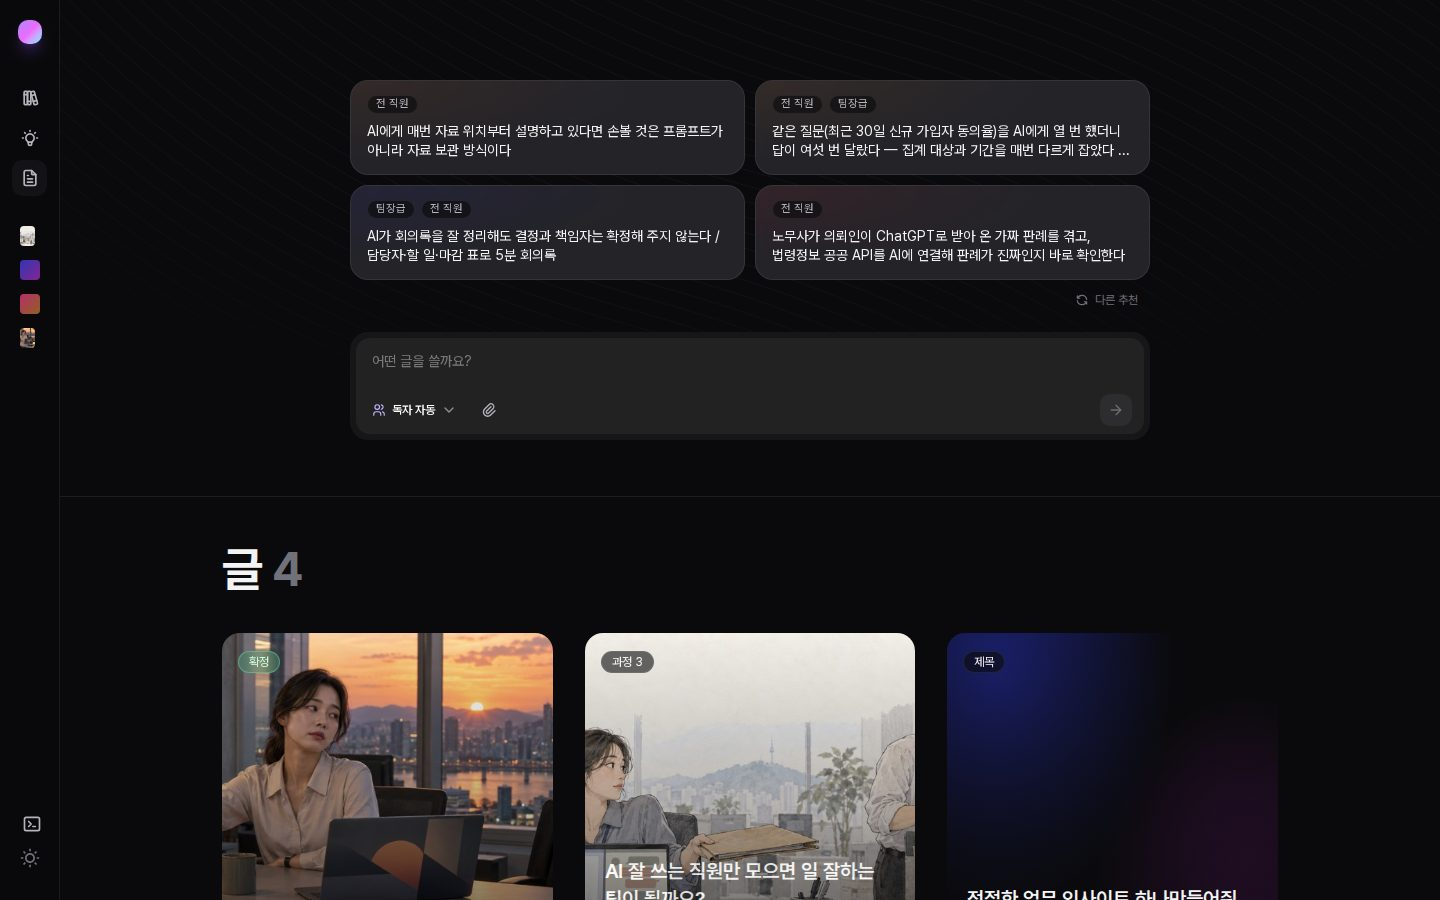
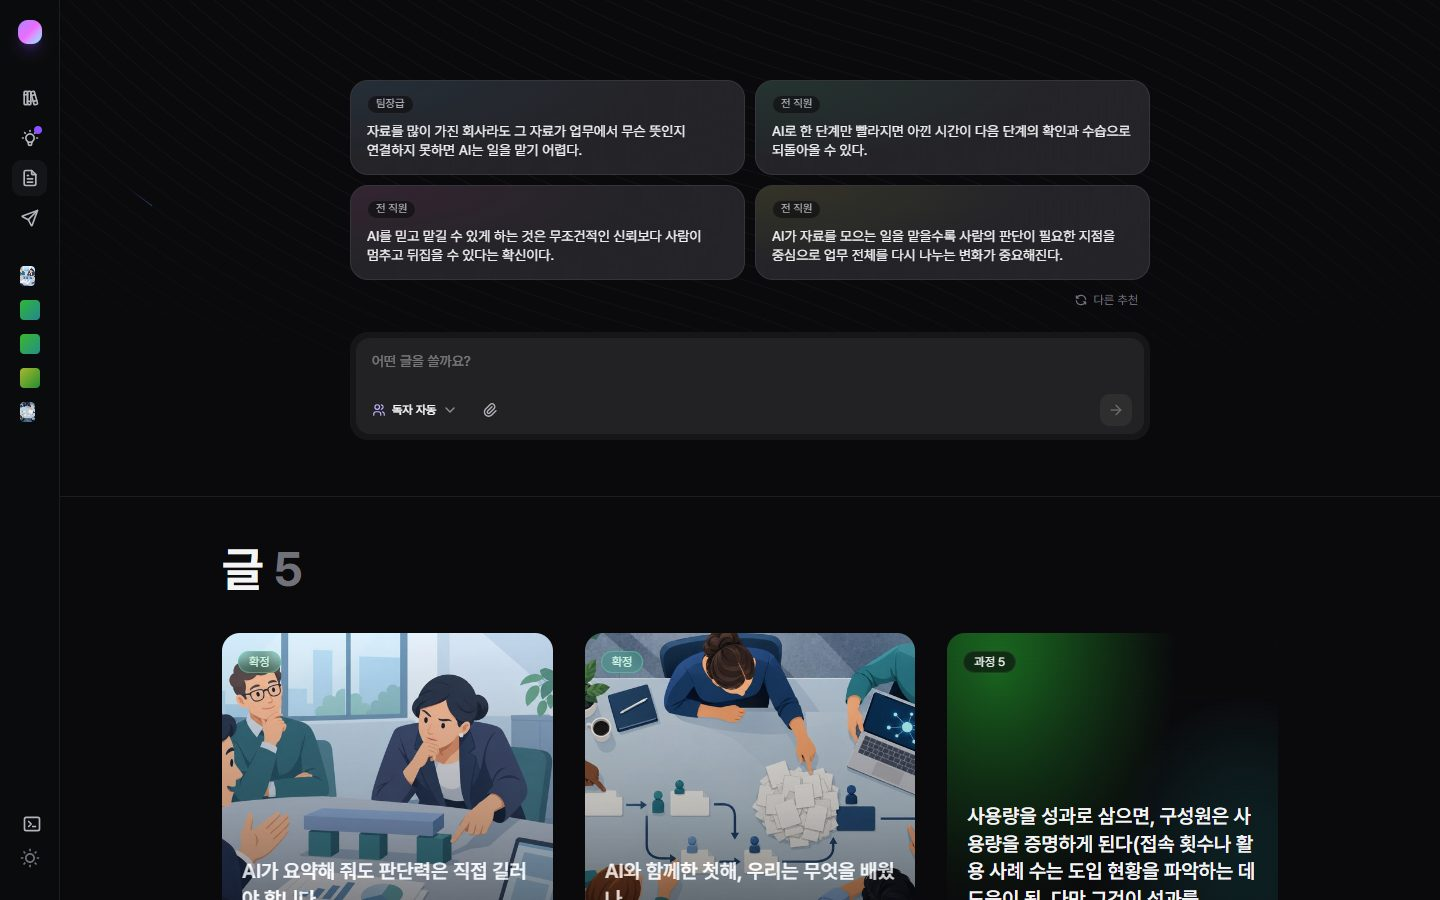
README 화면 캡처 8장을 지금 작업실 화면으로 다시 찍음
- 확정 칼럼 m-20261111-131355로: 메인·서재·주제·글 화면·원문 확인·과정 비교·제목 후보·그림/확정/규칙 후보
- capture.py: 지워진 10월 글 대신 지금 글, 서재·주제 화면 추가, Playwright 크로미움이 없으면 Edge·Chrome 사용,
  열릴 때 자동 스크롤이 끝난 뒤 찍기, 대화 칸 안에서만 이름표 찾기
- 제목 화면은 '원고를 정한 뒤' 단계에서만 보여, 화면이 받는 상태 응답을 브라우저 안에서만 바꿔 찍음(서버·파일 변경 없음)
- 그림 후보는 그린 PC에만 있어(git 밖) 이번 캡처에는 없음 — README 캡션에 표시
- README 캡션, handoff의 캡처 관련 항목 갱신. 도식 두 장은 2026-10 것 그대로

diff --git a/docs/readme/capture.py b/docs/readme/capture.py
@@ -1,8 +1,13 @@
-"""README 화면 캡처 — 작업실 대화 화면 기준 (2026-10-11 밤 다시 찍음)
+"""README 화면 캡처 — 작업실 화면 8장 (2026-11-17 다시 찍음)
 
 사용: python3 docs/readme/capture.py [작업실 주소=http://localhost:8771]
-어두운 화면 1440×900, jpg. 글은 저장소에 커밋된 것만 찍는다. 그 글을 지웠으면 그 캡처는 건너뛴다.
+어두운 화면 1440×900, jpg. 작업실 서버가 떠 있어야 한다. 글은 저장소에 커밋된 확정 칼럼(ARTICLE)을 찍는다 — 그 글을 지웠으면 ARTICLE을 바꾼다.
+작업실에는 아무것도 쓰지 않는다(누르는 것은 보기 전환뿐).
+
+제목 화면(screen-titles.jpg)만 예외: 제목 후보는 '원고를 정한 뒤 · 그림 전' 단계에서만 보이는데 ARTICLE은 이미 확정한 글이라,
+화면이 받는 상태 응답(/api/state)을 브라우저 안에서만 그 단계로 바꿔 찍는다. 제목 후보는 그 글이 실제로 받은 것 그대로이고, 서버·파일은 바뀌지 않는다.
 """
+import json
 import sys
 import time
 from pathlib import Path
@@ -11,42 +16,84 @@ from playwright.sync_api import sync_playwright
 
 BASE = sys.argv[1] if len(sys.argv) > 1 else "http://localhost:8771"
 OUT = Path(__file__).resolve().parent
-SHOTS = [  # (파일, 주소, 대화에서 위로 올릴 표시 글자, 오른쪽 '지금 글'에서 누를 보기)
-    ("screen-articles.jpg", "#/articles", None, None),
-    ("screen-column.jpg", "#/a/2026-10-08-ai-퇴근시간", None, "미리보기"),
-    ("screen-mine.jpg", "#/a/m-20261011-215031", "top", None),
-    ("screen-titles.jpg", "#/a/w-20261010-161003", "top", None),
-    ("screen-process.jpg", "#/a/m-20261011-173414", "과정 2", "비교"),
-    ("screen-images.jpg", "#/a/m-20261011-173414", "그림", None),
+ARTICLE = "m-20261111-131355"  # 확정 칼럼 「AI가 요약해 줘도 판단력은 직접 길러야 합니다」 — 주제 지도에서 시작, 과정 13
+A = f"#/a/{ARTICLE}"
+SHOTS = [  # (파일, 주소, 대화에서 위로 올릴 표시 글자, 누를 과정 카드, 오른쪽 '지금 글'에서 누를 보기, 제목 단계로 바꿔 찍기)
+    ("screen-articles.jpg", "#/articles", None, None, None, False),
+    ("screen-library.jpg", "#/library", None, None, None, False),
+    ("screen-topics.jpg", "#/topics", None, None, None, False),
+    ("screen-column.jpg", A, None, None, "미리보기", False),
+    ("screen-mine.jpg", A, "top", None, None, False),
+    ("screen-process.jpg", A, "과정 3", "과정 3", "비교", False),
+    ("screen-titles.jpg", A, "제목 후보", None, None, True),
+    ("screen-images.jpg", A, "그림", None, None, False),
 ]
+
+
+def launch(p):
+    """Playwright 크로미움이 없으면 설치된 Edge·Chrome을 쓴다(브라우저를 새로 받지 않게)."""
+    for kw in ({}, {"channel": "msedge"}, {"channel": "chrome"}):
+        try:
+            return p.chromium.launch(**kw)
+        except Exception:
+            continue
+    sys.exit("브라우저를 찾지 못함 — `playwright install chromium` 또는 Edge·Chrome 설치")
+
+
+def title_stage(route):
+    """ARTICLE을 '원고를 정한 뒤 · 그림 전'으로 — 이 페이지가 받는 응답만 바꾼다."""
+    r = route.fetch()
+    s = r.json()
+    for a in s.get("articles", []):
+        if a.get("id") == ARTICLE:
+            a.update(confirmed=None, imagesDone=False, ruleCands=None, textPick={"n": len(a["steps"]), "of": len(a["steps"])})
+    route.fulfill(response=r, body=json.dumps(s, ensure_ascii=False), headers={**r.headers, "content-type": "application/json"})
 
 
 def scroll_to(pg, mark):
     """대화 칸에서 그 표시 글자가 위쪽에 오게 — 대화는 열리면 맨 아래로 내려가므로 그 뒤에 올린다"""
-    time.sleep(1.5)
     box = pg.locator("section div.overflow-y-auto").first
+    last = -1  # 열릴 때 맨 아래로 부드럽게 내려가는 움직임이 끝날 때까지 기다린다 — 끝나기 전에 올리면 다시 끌려 내려간다
+    for _ in range(40):
+        time.sleep(0.4)
+        cur = box.evaluate("e => e.scrollTop")
+        if cur == last:
+            break
+        last = cur
     if mark == "top":
         box.evaluate("e => { e.style.scrollBehavior = 'auto'; e.scrollTop = 0; }")
         return
-    el = pg.get_by_text(mark, exact=True).first  # 대화의 이름표가 확정 카드의 칩보다 먼저 나온다
+    el = box.get_by_text(mark, exact=True).first  # 대화 칸 안에서만 찾는다(왼쪽 목록에도 '과정 N' 표시가 있다). 이름표가 확정 카드의 칩보다 먼저 나온다
+    if not el.count():
+        el = box.get_by_text(mark).first
     if el.count():
         el.evaluate("e => { const b = e.closest('.overflow-y-auto'); b.style.scrollBehavior = 'auto'; b.scrollTop += e.getBoundingClientRect().top - 90; }")
+    else:
+        print("  표시 글자를 못 찾음:", mark)
 
 
 with sync_playwright() as p:
-    b = p.chromium.launch()
-    pg = b.new_page(viewport={"width": 1440, "height": 900}, color_scheme="dark")
-    for name, h, mark, view in SHOTS:
+    b = launch(p)
+    for name, h, mark, card, view, mock in SHOTS:
+        pg = b.new_page(viewport={"width": 1440, "height": 900}, color_scheme="dark")
+        if mock:
+            pg.route("**/api/state*", title_stage)
         pg.goto(f"{BASE}/{h}", wait_until="networkidle")
-        time.sleep(2)
+        time.sleep(2.5)
         if h.startswith("#/a/") and pg.locator("section").count() == 0:
             print("없는 글 — 건너뜀:", h)
+            pg.close()
             continue
-        if view:
-            pg.get_by_role("button", name=view, exact=True).click()
         if mark:
             scroll_to(pg, mark)
-        time.sleep(1)
+        if card:  # 과정 카드는 이름표 바로 아래에 있다 — 이름표를 위로 올린 뒤 그 아래 카드 본문을 눌러 오른쪽 '지금 글'에 띄운다
+            box = pg.locator("section div.overflow-y-auto").first.get_by_text(card, exact=True).first.bounding_box()
+            pg.mouse.click(box["x"] + 300, box["y"] + 70)
+            time.sleep(0.8)
+        if view:
+            pg.get_by_role("button", name=view, exact=True).click()
+        time.sleep(1.2)
         pg.screenshot(path=str(OUT / name), type="jpeg", quality=82)
         print(name)
+        pg.close()
     b.close()

diff --git a/handoff.md b/handoff.md
@@ -147,7 +147,8 @@
 - 무유입 경보 이슈가 닫히지 않고 쌓여 새 고장이 묻힌다.
 
 **문서·정리**
-- README의 화면 캡처와 도식 두 장은 2026-10 것이다(`python3 docs/readme/capture.py`로 다시 찍을 수 있는지는 확인하지 못했다).
+- README의 화면 캡처 8장은 2026-11-17에 다시 찍었다(`python3 docs/readme/capture.py <작업실 주소>` — Playwright 크로미움이 없으면 Edge·Chrome을 쓴다).
+  도식 두 장(`diagram-flow.png`·`diagram-architecture.png`)은 2026-10 것 그대로다. 그림 후보가 보이는 캡처는 그림을 그린 PC에서 찍어야 한다.
 - 2026-11-17 10월 시험 잔재를 지웠다 — `wiki-hook/`, `drafts/`, `view/`(+`scripts/build_view.py`·`ai_tells.py`), `runs/`의 `astra-*`·`claude-*`·`_F`·`standard`·`rewrite`·`direct`·`sim`·
   `skilltest`·`company-rule-test`·`topic-*`·`compare-1011`. 필요하면 git 이력에서 꺼낸다(삭제 직전 커밋 `5524734`).
   그 폴더를 읽고 쓰던 `wiki-eval/`의 10월 시험 스크립트(`run_*.py`·`build_*_page.py` 등)는 기록으로 남겼고, 다시 돌리면 동작하지 않는다.
@@ -163,7 +164,7 @@
 2. 본문을 쓴 뒤 버려지는 글 줄이기 — 과정 1 뒤에 사람이 보고 넘기는 단계, astra 빈 결과를 실패로 처리.
 3. 공유 상태를 화면에 표시하고 작업에 시간 제한 걸기.
 4. "24시간 수집 없음" 경보.
-5. README 캡처 다시 찍기, 시험 잔재 정리.
+5. README 도식 두 장 다시 만들기(화면 캡처와 시험 잔재 정리는 2026-11-17에 함).
 
 ## 10. 기록 위치
 
